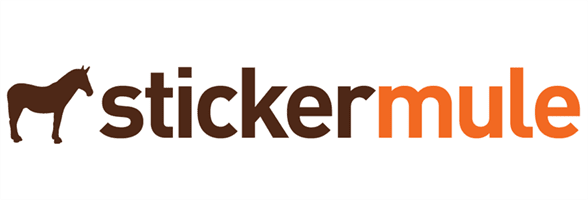
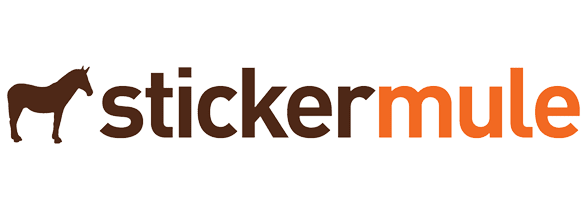
added sponsors

diff --git a/components/EventsPageSponsorSection.vue b/components/EventsPageSponsorSection.vue
@@ -1,0 +1,163 @@
+<template>
+  <Container id="event-sponsors" name="event-sponsors">
+    <section class="content-section">
+      <HashHeader title="SPONSORS" />
+      <div class="contents">
+        <div v-for="(section, index) in sponsors" :key="index">
+          <div :class="['subheading', index !== 0 ? 'with-spacing' : null]">
+            <h2 class="section-title">{{ section.type }}</h2>
+          </div>
+          <div class="cards-grid">
+            <div
+              v-for="(sponsor, index) in section.logos"
+              :key="index"
+              :class="[
+                sponsor.image ? null : 'hide-small',
+                sponsor.specialClass
+              ]"
+            >
+              <a :href="sponsor.url" rel="noopener noreferrer" target="_blank">
+                <div
+                  v-if="sponsor.image"
+                  class="card smooth-transition-sponsor"
+                >
+                  <img :src="sponsor.image" alt="sponsor" />
+                </div>
+              </a>
+            </div>
+          </div>
+        </div>
+      </div>
+    </section>
+  </Container>
+</template>
+
+<script>
+import Container from "~/components/Container";
+import HashHeader from "~/components/HashHeader";
+
+export default {
+  components: {
+    Container,
+    HashHeader
+  },
+  data() {
+    return {
+      sponsors: [
+        {
+          type: "",
+          logos: [
+            {
+              url: "https://hackp.ac/mlh-stickermule-hackathons",
+              image: require("~/assets/Sponsors/stickermule.png")
+            },
+            {
+              url: "https://hackclub.com/",
+              image: require("~/assets/Sponsors/hackclub.png")
+            }
+          ]
+        }
+      ]
+    };
+  }
+};
+</script>
+
+<style lang="scss" scoped>
+.content-section {
+  display: flex;
+  padding: 1rem 4rem;
+  flex-direction: column;
+  text-align: center;
+
+  @include respond-below(sm) {
+    padding: 1rem 1rem;
+  }
+
+  .subheading {
+    font-family: "Poppins";
+    font-style: bold;
+    justify-content: space-around;
+    display: flex;
+    align-self: center;
+    color: rgba(128, 128, 128, 1);
+
+    h2.section-title {
+      font-size: 1.5rem;
+      font-weight: 600;
+      padding: 20px 10px 20px 0;
+    }
+  }
+
+  .contents {
+    .subheading {
+      margin-top: 2rem;
+      // padding: 20px 0px;
+      font-family: "Poppins";
+      font-style: bold;
+      justify-content: space-around;
+      display: flex;
+      align-self: center;
+      color: rgba(128, 128, 128, 1);
+
+      h2.section-title {
+        font-size: 1.5rem;
+        font-weight: 600;
+        padding: 20px 10px 20px 0;
+      }
+    }
+    .cards-grid {
+      margin-top: -4rem;
+      display: flex;
+      grid-template-columns: repeat(4, 1fr);
+      column-gap: 30px;
+      row-gap: 30px;
+      justify-content: center;
+      flex-wrap: wrap;
+
+      @include respond-below(md) {
+        grid-template-columns: repeat(3, 1fr);
+      }
+
+      @include respond-below(sm) {
+        grid-template-columns: repeat(2, 1fr);
+        column-gap: 10px;
+        row-gap: 30px;
+      }
+
+      .card {
+        display: flex;
+        flex-direction: column;
+        text-align: center;
+        justify-content: center;
+        background-color: #fff;
+        box-shadow: rgba(255, 107, 0, 0.07) 0px 0px 10px 2px;
+        height: 100px;
+        min-width: 200px;
+        padding: 2rem 0rem;
+        border-radius: 1rem;
+
+        &:hover {
+          background-color: #feede3;
+        }
+
+        @include respond-below(xs) {
+          height: unset;
+          min-width: 70vw;
+        }
+
+        img {
+          max-width: 130px;
+          max-height: 70px;
+          height: auto;
+          width: auto;
+          margin: auto;
+          @include respond-below(xs) {
+            max-width: 80px;
+          }
+        }
+      }
+    }
+  }
+}
+</style>

diff --git a/nuxt.config.js b/nuxt.config.js
@@ -7,7 +7,7 @@ export default {
 
   // Global page headers: https://go.nuxtjs.dev/config-head
   head: {
-    title: "Hack This Fall 2.0 | Innovate For Good",
+    title: "Hack This Fall",
     htmlAttrs: {
       lang: "en"
     },
@@ -23,7 +23,7 @@ export default {
       },
       {
         property: "apple-mobile-web-app-title",
-        content: "Hack This Fall 2.0 | Innovate For Good"
+        content: "Hack This Fall"
       },
       {
         property: "og:url",
@@ -35,7 +35,7 @@ export default {
       },
       {
         property: "og:title",
-        content: "Hack This Fall 2.0 | Innovate For Good"
+        content: "Hack This Fall"
       },
       {
         property: "og:description",
@@ -56,7 +56,7 @@ export default {
       },
       {
         name: "twitter:title",
-        content: "Hack This Fall 2.0 | Innovate For Good"
+        content: "Hack This Fall"
       },
       {
         name: "twitter:image",

diff --git a/components/EventsSection.vue b/components/EventsSection.vue
@@ -29,7 +29,7 @@
         style="background-color: #d74f4b;"
         target="_blank"
         href="https://atsign.com/hack-this-fall-wavi-contest/"
-        >Click Here To Register</a
+        >Registration Starting Soon</a
       >
       <br />
       <div class="cards-grid">
@@ -47,16 +47,19 @@
           </div>
         </div>
       </div>
+      <EventsPageSponsorSection />
     </div>
   </div>
 </template>
 
 <script>
 import Container from "~/components/Container";
+import EventsPageSponsorSection from "~/components/EventsPageSponsorSection.vue";
 
 export default {
   components: {
-    Container
+    Container,
+    EventsPageSponsorSection
   },
   data() {
     return {
